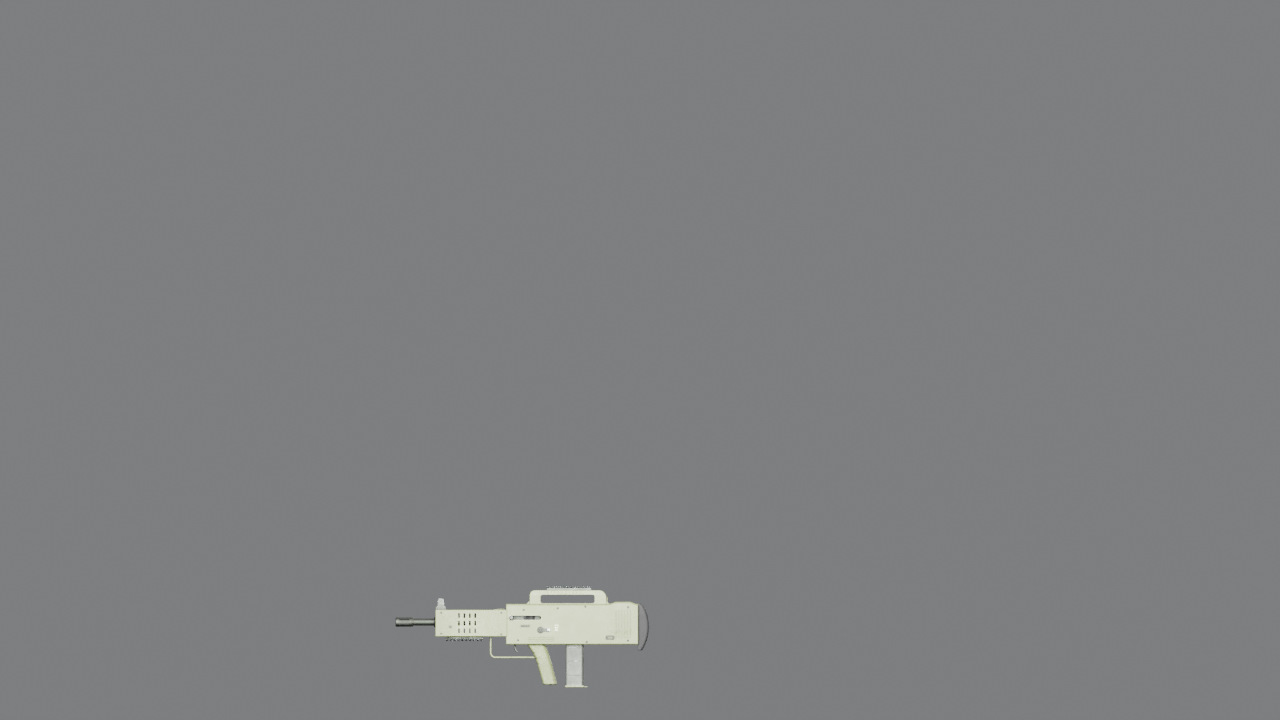
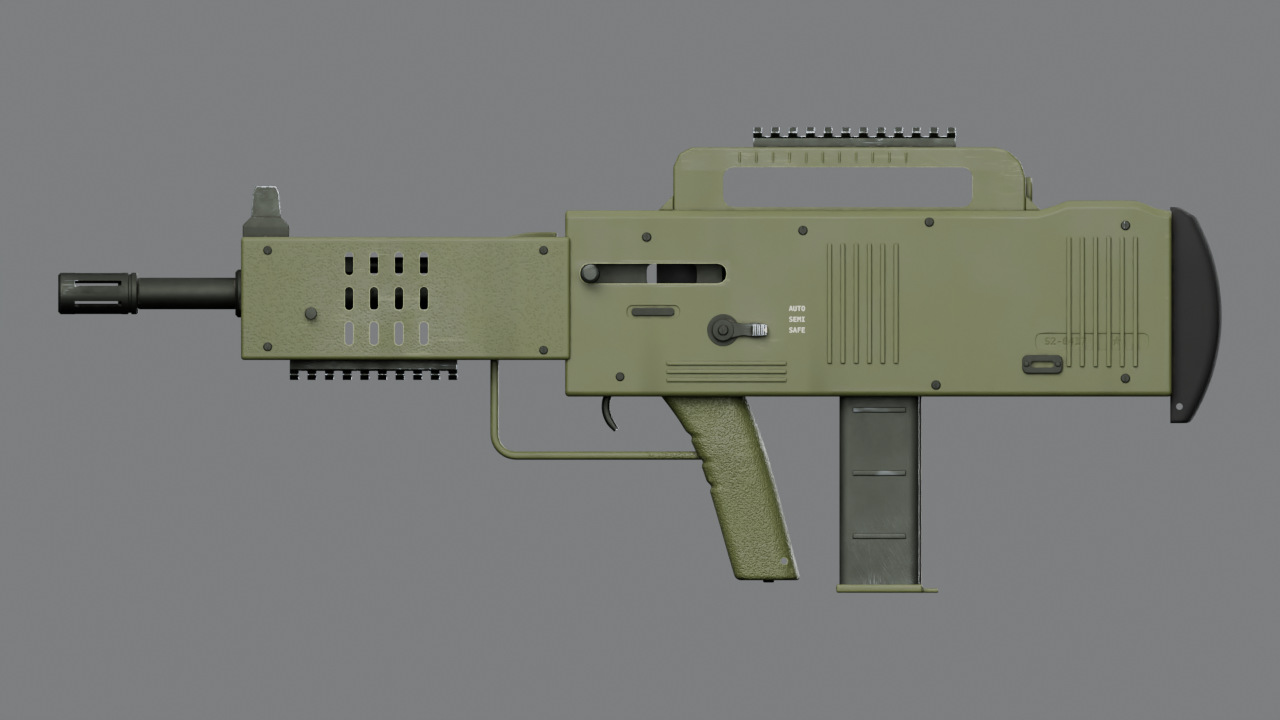
SHORTY: the four pictures (hero, first person, flat side, posed open with the magazine) and the notes
The pictures are rendered from the exported GLBs with their baked sets; art/blender/PROGRESS.md has the state at hand-off, the
decisions where the specification was silent (the carry handle's front leg in the sight line, the underside rail's phase, the
deflector, the forend's vents), the known weaknesses and the next step.

Claude-Session: https://claude.ai/code/session_01HkcHdD7NbyxwnFfuuSpZY4

Changed region(s): [[0.0312, 0.2139, 0.9688, 0.825], [0.3125, 0.7944, 0.5, 0.9778], [0.5625, 0.1833, 0.75, 0.2444]]

diff --git a/art/blender/PROGRESS.md b/art/blender/PROGRESS.md
@@ -1044,3 +1044,82 @@ Cause, fix and the play-frame proof: `docs/unreal/CHARACTERS.md`, "SK_RuleArms, 
   as dark V shapes (the mesh measures sound: plate 0.42 mm above the bed, nail texels pale; not seen in play frames).
 - Not done: CHOPPER inspect / reload finger corrections, hair cards, an inspect forearm roll (the pack inspect keeps the
   support forearm out of frame). Higgsfield: 0 credits.
+
+---------------------------------------------------------------------------------------------------------------
+# Weapons round 4: the SHORTY (assets/weapons_shorty.py, _weapons_shorty.py, _weapons_shorty_b.py, _weapons_shorty_tex.py, _weapons_shorty_prev.py, _weapons_check_shorty.py), weapons modeler
+
+Why: the owner played the build on E3DS and wrote "all the guns look the same and no attachments are able to be added to the
+guns". True: four of the five offered guns were one purchased-pack M4 (docs/unreal/LOADOUT.md, "Read this first"). The SHORTY
+is the first of three new guns of our own, built from the round-4 designer's specification (the contract is `_weapons_shorty.SH`;
+the code works in mm, the files are metres). A compact bullpup carbine, 5.6 mm class: the action and the magazine sit BEHIND
+the pistol grip, so a 700 mm gun carries a 267 mm barrel. It shares no shape with the CHOPPER, the NINE or the pack rifle:
+a tall olive polymer block, a see-through carry handle (150 x 24 mm window) on top, a short ventilated forend, a squat
+birdcage hider. Our own design in the manner of the class: markings are invented ('CARBINE S-5.6', 'SAFE SEMI AUTO',
+a proof star, serial 'S2-0417').
+
+## State at hand-off: exported and proven (`python art/blender/assets/_weapons_check_shorty.py`: SHORTY ALL FIXED POINTS KEPT, 63 of 63)
+- `build.py build weapons_shorty --bake --export` (about 10 min on 2 threads: geometry maps 300 s, per-texel paint 290 s):
+  `SK_Shorty` 67,168 triangles (plan 95k, cap 120k; grip 9.7k, butt pad 5.7k, screws 8.6k, barrel 4.6k, body 4.3k, hider 4.3k,
+  forend 3.1k, ribs 3.6k, handle + ring 3.5k ...), one slot `M_Shorty` on the unique 4K set `Shorty` (BC, N, ORM, E = the tritium
+  insert), 7 deform bones (body root, bolt, trigger, selector, magazine (attach, no vertices), MuzzleDevice, IronsFront) + the 12
+  socket bones of the contract, every vertex on one bone with weight 1.0, every bone at rest with the gun's axes, re-import proof
+  in a fresh process (all five poses < 5e-8 m); `SM_Weapon_ShortyMagazine` 6,292 + `_TopRound` 2,804 triangles (in place, origin =
+  gun origin, 2K set `Weapon_ShortyMagazine`, slot `M_Weapon_ShortyMagazine`); new tiling `TS_GunDetail_Polymer` (12 mm; the steel
+  tile is the existing 20 mm one; the slot record gives the repeat per UV: blend by ORM.B, 1 = steel tile, 0 = polymer tile).
+- Texel density: 6,120 px/m at 4K on the weight-1 faces (both flanks, top, handle, rail), 75 % on the forend and grip, 50 % on
+  the barrel, hider, butt pad and undersides, 30-45 % on interiors; median over all faces 4,570; the magazine 8,033 px/m.
+  The specification asks 7,000 on the flanks: the 4K square holds about 0.26 m2 of weighted surface at 60 % packing; unwrap =
+  smart project 66 deg, margin 4 (at 2048), CONVEX pack (coverage 56 % of the square), weights from `weapons_shorty.uv_weights`.
+- The proof (all measured on the re-imported files): every bone and socket 1e-5 m; box 0..0.700 x -0.043..+0.040 x -0.180..+0.100;
+  aperture 9 mm round, centred Z 0.060, front post tip Z 0.060, sight radius 441, the line from the aperture to the post clear
+  (first hit the post at X 0.5734); the window 150 x 24 see-through; BOTH MI-R rails tooth by tooth (handle: 12 lugs of 5.3 mm,
+  lug tops Z 0.100, slot floors 5.4 mm down, 21.2 mm across the flanks; underside: 10 lugs, lug undersides Z -0.052); Optic,
+  Underbarrel, Laser, Palm_L on the rails, MuzzleMount on the thread shoulder (barrel R 9.5 -> R 8.2 at X 0.652); Palm_R 0.01 mm
+  from the grip's right face, trigger's rear face X 0.368 = 73 mm ahead of it, grip to magazine gap 24 mm at the bottom, the grip
+  33 x 42 mm at palm height; bolt 0..75 mm (1.0-3.0 mm clear of the cavity, the stem 5.3 mm clear of its slot), trigger 0..17
+  deg (2.0 mm clear), selector 0 / 14 / 28 deg (0.3 mm), magazine in place and dropped 130 mm: no contact; with MuzzleDevice or
+  IronsFront removed no edge opens (the barrel stub R 8.05-8.5 and the bore, R 2.8 to X 0.600, stay); the eye corridors of the
+  irons (relief 0.12), the red dot (0.14) and the 4x scope (0.085) are clear.
+- Pictures (8 renders, 4 + 4): `art/previews/weapons_shorty_hero.jpg`, `_fp.jpg`, `_side.jpg`, `_parts.jpg`, rendered from the
+  exported GLBs with their baked sets; `art/out/ui/T_UI_Gun_Shorty.png` (512 x 192, 2.2 mm per px, bore at y = 84, centred,
+  alpha film, the window transparent; not committed) via `MI_PREVIEWS=... build.py build weapons_shorty --preview --only none`.
+
+## Decisions (where the specification was silent, short or inconsistent)
+- The carry handle's FRONT leg (X 300..330) would stand in the sight line (Z 60): an 18 x 14 mm sight port is cut through it;
+  the proof checks that the line from the aperture ends on the post. The aperture is a lathe cut: 9 mm at X 130..137 (SightRear
+  X 0.134), flaring to 19 mm at the front face; the 20 mm ring is a separate solid (a union on the tangent circle left cracks).
+- Underside rail: the specification's X 455..560 is 19.8 half-pitches; 10 lugs + 9 slots (100.7 mm) are laid from X 459.95 so
+  that Palm_L (0.505) and Laser (0.536) land on lugs; Underbarrel (0.488) falls in a slot (the grip's cross-bolt sits there).
+  The top rail is 12 lugs + 11 slots from X 160.0, centred on the Optic socket (a slot centre).
+- The ejection port (X 340..400, Z 0..32) cuts the body and the first 5 mm of the forend; the deflector vane starts at its
+  front edge (X 400), reaches Y -0.043 (the specification's width), is swept 30 deg at its root, its top falls from Z 37 to 26 and
+  its tip is rolled. Vent slots (3 rows x 4 columns of 5 x 14 mm per side) sit at X 480..525 so the vane does not hide them.
+- Inside: a carrier cavity (X 215..398, Y +-16, Z -10..33) holds the bolt carrier (bright head, extractor, left stem through the
+  slot X 298..386, knob to Y +0.040); the forend is hollow with the barrel, the gas block and a gas tube behind the slots. The
+  feed path from the magazine well (X 180..232) to the chamber (X 397) is NOT modelled (the carrier is a block).
+- Shells with weapons.P: `weapons_shorty.finish()` (module `_weapons_shorty`) welds coincident vertices before it smooths; P's
+  `clean()` deletes faces under 1e-11 m2, which opened the shell after a clamped bevel (the old functions are untouched).
+- The first-person picture: the camera sees the gun's LEFT flank (the gun hangs at the right of the picture), which faces away
+  from the design sun of 260: the sun is moved to bearing 325 for this picture. The gun sits at the CHOPPER's viewmodel rotation
+  with Palm_R on the CHOPPER's Palm_R (the origin of a bullpup is its butt: views[0] = [0.2229, -0.0925, 0.0046, 0.05, 0.28, -0.35]
+  in the game's units does that), nudged 6 cm toward the centre so the whole arch is in the frame.
+- Texture memory: the per-texel painters run in pieces of 1.5 M texels and free the position, normal and id maps once the flat
+  arrays exist (measured peak 1.6 GB at a 2048 draft; the 4K run took 10 min with the other agents' jobs running).
+
+## Known weaknesses (most visible first)
+- The parkerised steel (barrel, hider, trigger, magazine) reads near black in the studio pictures: #3b3e39 at metallic 1 mirrors a dark
+  room. In the day rig it is a dark green-grey. The magazine body is a lighter phosphate (#4a4d46) for the same reason.
+- The flanks are 6,120 px/m, not 7,000; the left flank and the top got the full weight, the forend and the grip 75 %.
+- The polymer's wear is restrained: chalky edges, darker handled flats, thin scuffs along X, faint grime runs; the big flanks stay
+  mostly clean (no painted variation by hand). Steel wear is bright edges plus scratches, no rust or paint.
+- The trigger guard is the specification's 8 x 5 mm D section and reads as a wire loop from the side; the deflector vane is a
+  blocky plate (stipple on its flank).
+- Nothing was tried in Unreal: no hand pose or IK solve on Palm_R / Palm_L, no part fitted on the rails (the parts kit is another
+  agent's), no sight picture through an optic; the proof is geometric (fit rules, corridors, clearances).
+
+## Exact next step
+The Unreal integration (docs and data: guns.json shorty -> mesh SK_Shorty, mounts Optic / MuzzleMount (hide MuzzleDevice) /
+Underbarrel / Laser / MagHinge, optic.hide IronsFront, no stock slot, parts.bolt.bone 'bolt' travel 0.075, trigger.bone 'trigger',
+magazine.bone 'magazine', meshOffset pos [0,0,0] rot [0, 1.5708, 0], eject direction (0.55, -0.80, 0.25), relief 0.12 / 0.14 / 0.085,
+views[0] as above) and the animation work on Palm_R / Palm_L. If the art changes: `build.py build weapons_shorty --bake --export`
+then `python art/blender/assets/_weapons_check_shorty.py` (a draft is `--res 1024`, about 2 min).
